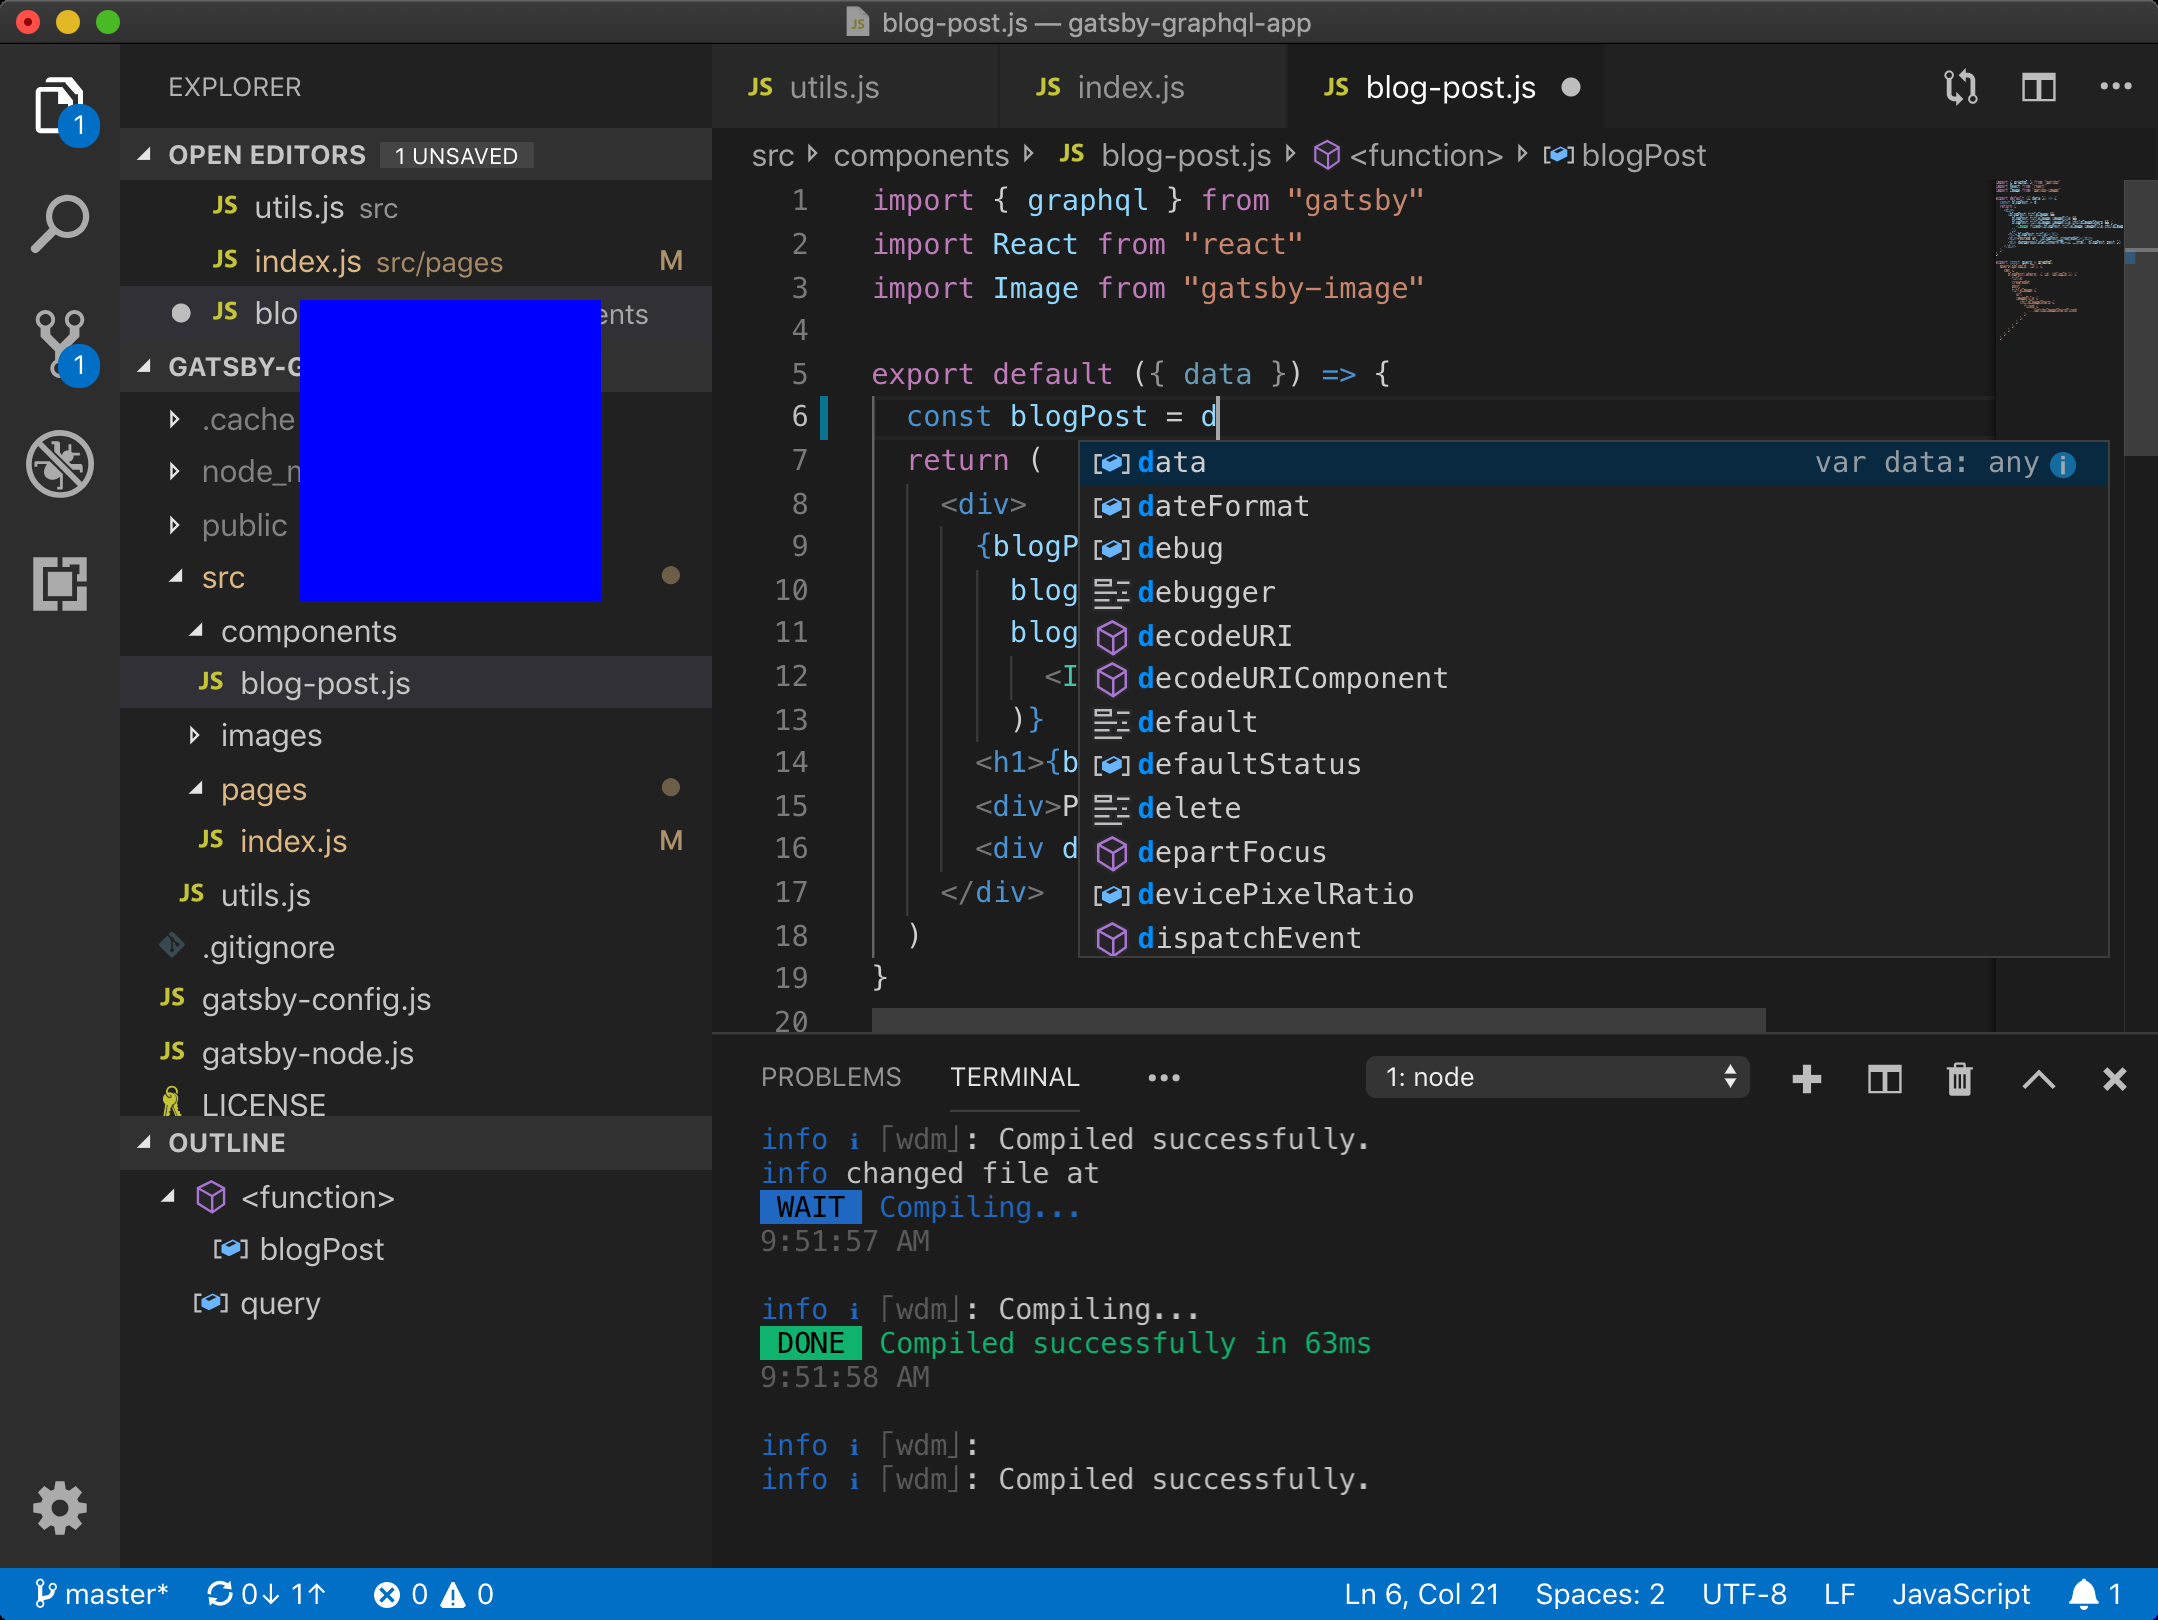
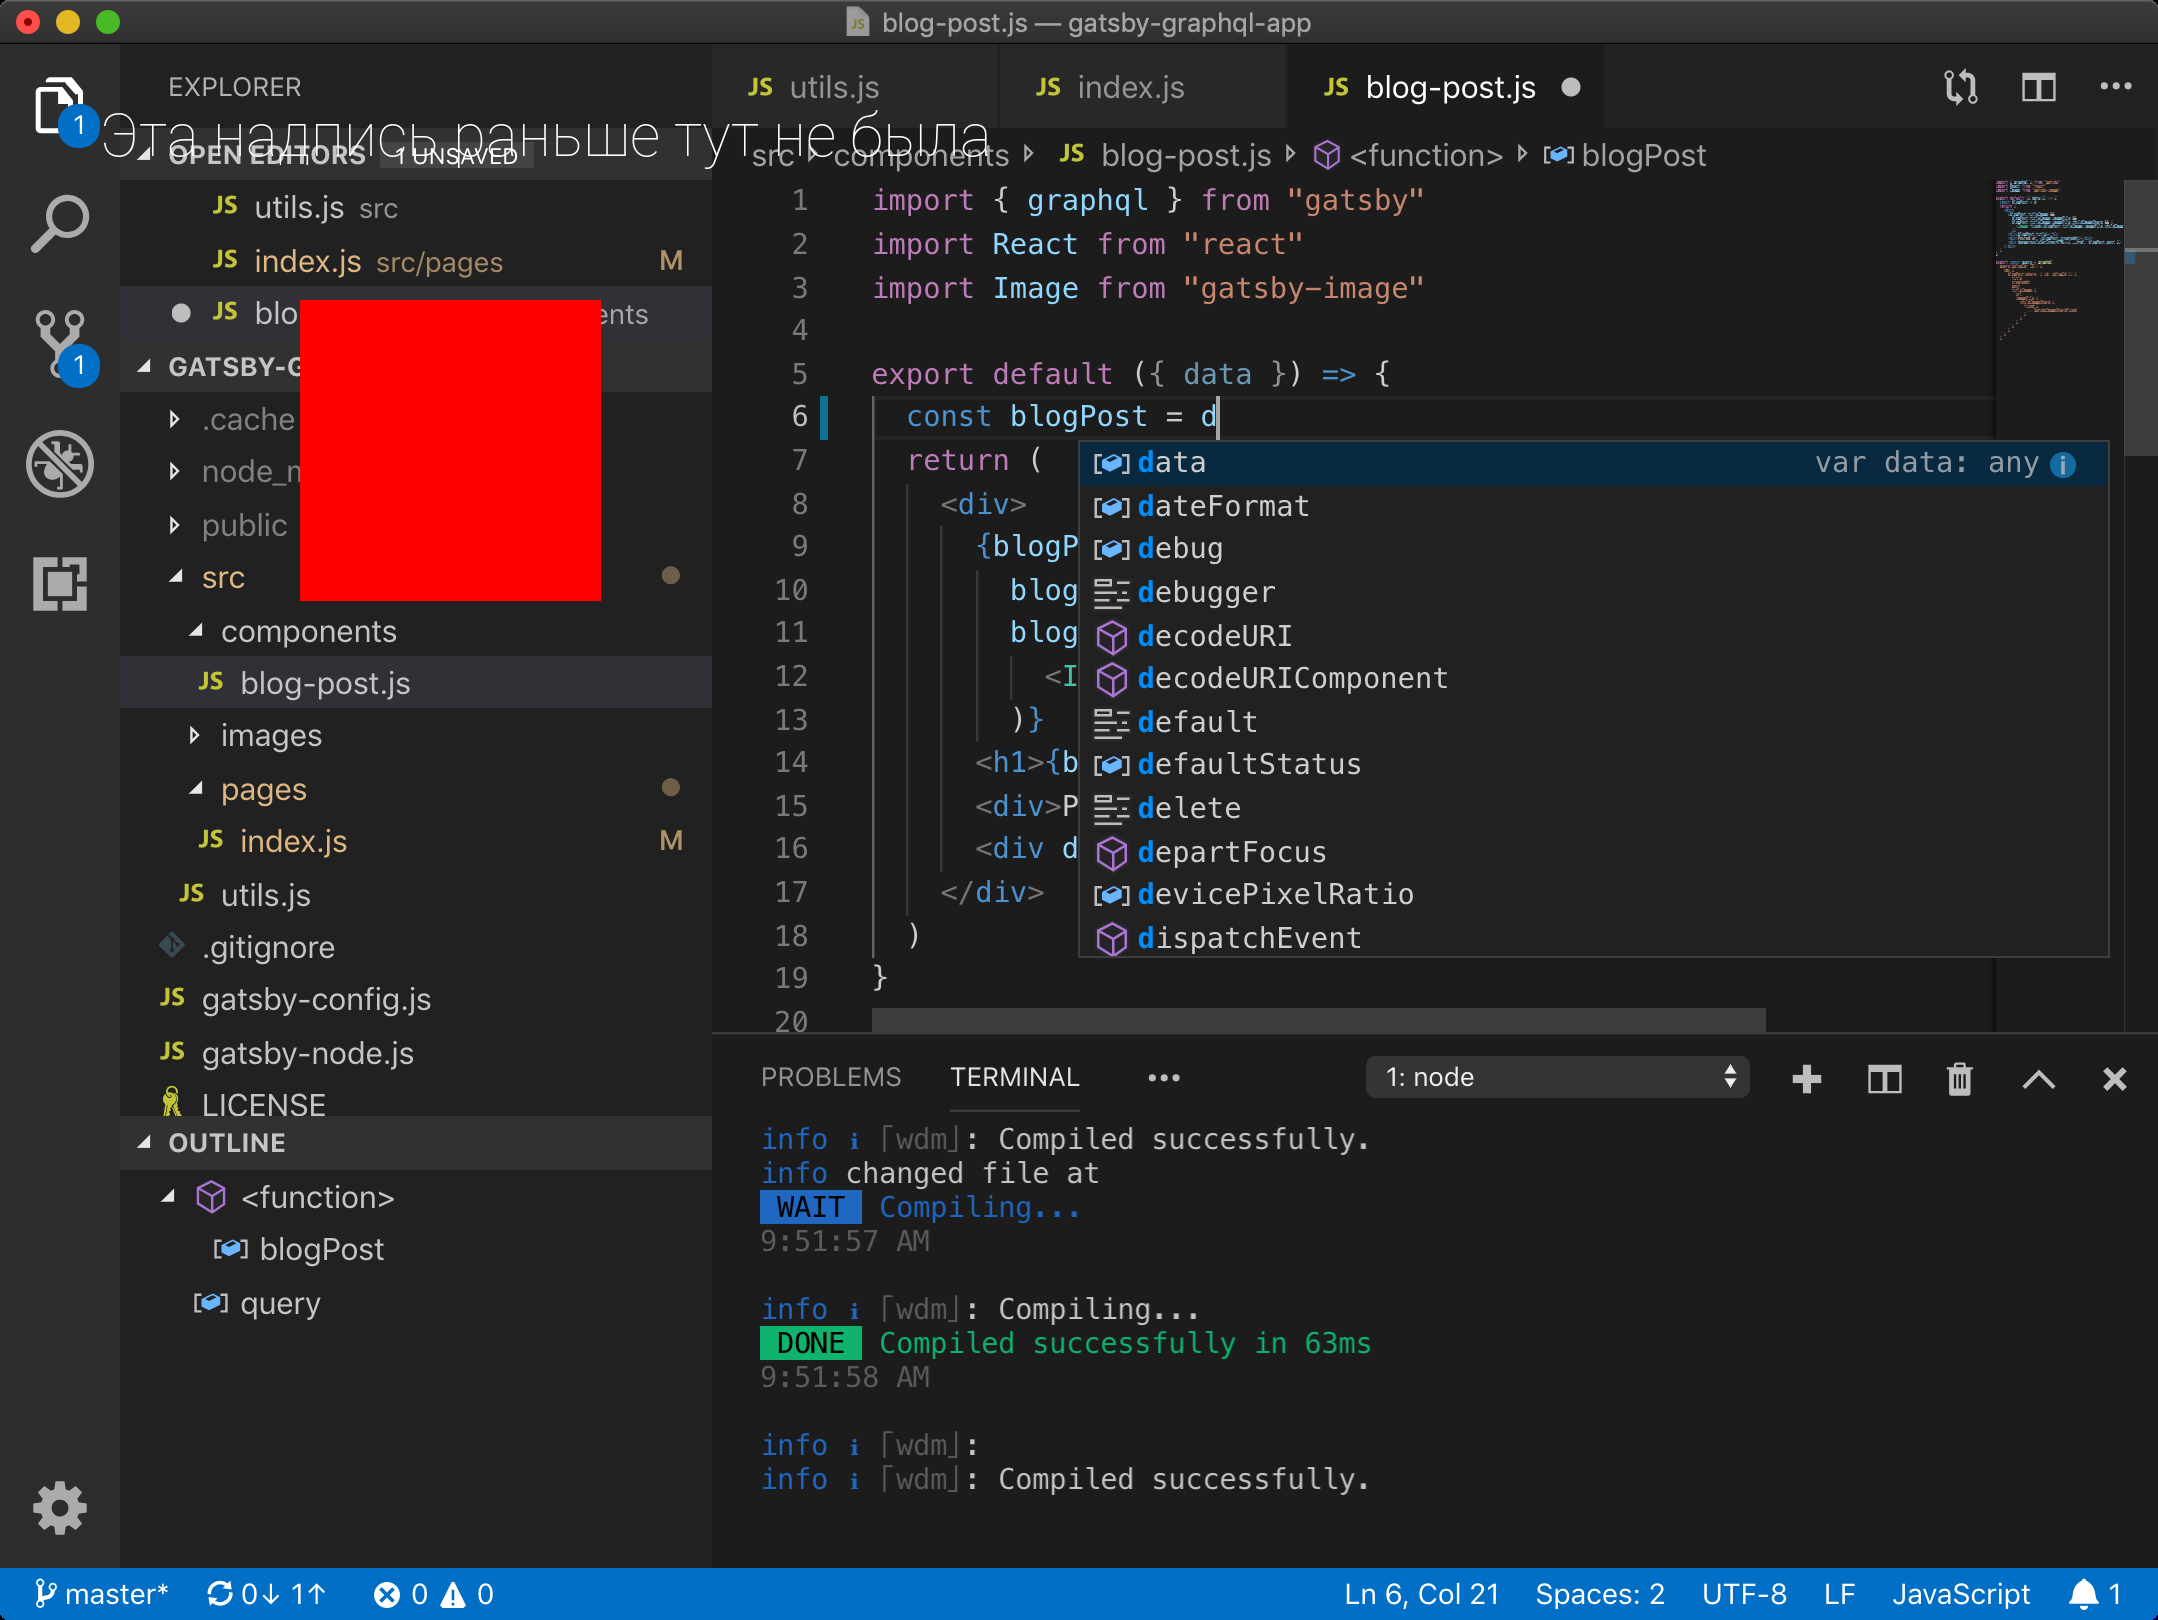
init

Changed region(s): [[0.1242, 0.1852, 0.2794, 0.3704]]

diff --git a/tests/test_3_with_draw_out_elements.py b/tests/test_3_with_draw_out_elements.py
@@ -15,16 +15,40 @@ def test_main_page_draw_elements_out(browser):
     diff_path = make_tmp_file_path(browser, "diff")
 
     browser.get(PROD_BASE_URL) # prod
-    slider = browser.find_element(By.CSS_SELECTOR, '[data-ux="Block"]').rect
+    element = browser.find_element(By.CSS_SELECTOR, '[data-ux="ModalBody"]').rect
     browser.save_screenshot(master_path)
 
     browser.get(STAGE_BASE_URL) # stage
+    element = browser.find_element(By.CSS_SELECTOR, '[data-ux="ModalBody"]').rect
     browser.save_screenshot(staging_path)
 
     comparison_test_light_with_draw(
         master_path,
         staging_path,
         diff_path,
-        draw_out=[slider],
+        draw_out=[element],
+        clear_images=False,
+    )
+
[email redacted]("testType", "screenshotDiff")
[email redacted]("Comparing pages test with special elements out")
+def test_main_page_get_special_elements_out(browser):
+    master_path = make_tmp_file_path(browser, "prod")
+    staging_path = make_tmp_file_path(browser, "staging")
+    diff_path = make_tmp_file_path(browser, "diff")
+
+    browser.get(PROD_BASE_URL) # prod
+    element = browser.find_element(By.CSS_SELECTOR, '[data-ux="ModalBody"]')
+    element.screenshot(master_path)
+
+    browser.get(STAGE_BASE_URL) # stage
+    element = browser.find_element(By.CSS_SELECTOR, '[data-ux="ModalBody"]')
+    element.screenshot(staging_path)
+
+    comparison_test_light_with_draw(
+        master_path,
+        staging_path,
+        diff_path,
+        draw_out=[element],
         clear_images=False,
     )

diff --git a/tests/test_1_comparing_urls.py b/tests/test_1_comparing_urls.py
@@ -9,7 +9,7 @@ from screenshots.helpers import comparison_test_light, make_tmp_file_path
 
 @allure.label("testType", "screenshotDiff")
 @allure.title("Comparing pages test with basic comparison")
-
[email redacted]
 def test_main_page(browser):
     master_path = make_tmp_file_path(browser, "prod")
     staging_path = make_tmp_file_path(browser, "staging")
@@ -18,6 +18,21 @@ def test_main_page(browser):
     browser.get(PROD_BASE_URL)
     time.sleep(1)
     browser.save_screenshot(master_path)
+
+    browser.get(STAGE_BASE_URL)
+    time.sleep(1)
+    browser.save_screenshot(staging_path)
+
+    comparison_test_light(master_path, staging_path, diff_path, clear_images=False)
+
+
[email redacted]("testType", "screenshotDiff")
[email redacted]("Comparing pages test with basic comparison")
[email redacted]
+def test_main_page2(browser):
+    master_path = 'test_screenshots/test_main_page/1fa43_staging.png'
+    staging_path = make_tmp_file_path(browser, "staging")
+    diff_path = make_tmp_file_path(browser, "diff")
 
     browser.get(STAGE_BASE_URL)
     time.sleep(1)

diff --git a/pillow_examples/2_text_on_image.py b/pillow_examples/2_text_on_image.py
@@ -1,13 +1,13 @@
 from PIL import Image, ImageDraw, ImageFont
 
-image_object = Image.open("/Users/elenayanushevskaya/python_qa_screenshot/images/example_product.png").convert("RGB")
+image_object = Image.open("/Users/elenayanushevskaya/QAP/otus-visual-testing/images/example_product.png").convert("RGB")
 
 draw_object = ImageDraw.Draw(image_object)
 text = "Эта надпись раньше тут не была"
 
-# font = ImageFont.truetype("Roboto-Thin.ttf", size=60)
-#
-# draw_object.text((100, 100), text, font=font)
-draw_object.rectangle((300, 300, 600, 600), fill="blue")
+font = ImageFont.truetype("Roboto-Thin.ttf", size=60)
 
-image_object.save('/Users/elenayanushevskaya/python_qa_screenshot/images/example_product_tag.png')
+draw_object.text((100, 100), text, font=font)
+draw_object.rectangle((300, 300, 600, 600), fill="red")
+
+image_object.save('/Users/elenayanushevskaya/QAP/otus-visual-testing/images/example_product_tag.png')

diff --git a/tests/test_4_with_remove_elements.py b/tests/test_4_with_remove_elements.py
@@ -21,15 +21,14 @@ def test_main_page_remove_elements(browser):
             element.remove();;
             """, element)
 
-    elements_prod = ['#popup-widget7437']
-    elements_stage = ['#popup-widget62629']
+    elements = ['[data-ux="ModalPopup"]']
     browser.get(PROD_BASE_URL)
-    time.sleep(3)  # We want slider swipe
-    remove_elements(browser, elements_prod)
+    time.sleep(3)
+    remove_elements(browser, elements)
     browser.save_screenshot(master_path)
 
     browser.get(STAGE_BASE_URL)
-    remove_elements(browser, elements_stage)
+    remove_elements(browser, elements)
     browser.save_screenshot(staging_path)
 
     comparison_test_light(master_path, staging_path, diff_path, clear_images=False)

diff --git a/tests/test_9_lib_visual_comparison.py b/tests/test_9_lib_visual_comparison.py
@@ -31,7 +31,7 @@ def test_visual_comparison(browser):
     match_result = ImageComparisonUtil.check_match(master_path, staging_path)
     assert match_result
 
[email redacted]
+
 def test_visual_comparison_element(browser):
     master_path = make_tmp_file_path(browser, "prod")
     staging_path = make_tmp_file_path(browser, "staging")
@@ -39,12 +39,13 @@ def test_visual_comparison_element(browser):
 
     browser.get('https://global.wildberries.ru/')
     time.sleep(3)
+    _ = browser.find_element(By.CSS_SELECTOR, '[data-wba-header-name="Country"]').rect
     browser.find_element(By.CSS_SELECTOR, '[class="header j-header header--sticky"]').screenshot(master_path)
 
     browser.get('https://www.wildberries.by/')
     time.sleep(3)
-    browser.find_element(By.CSS_SELECTOR, '[class="header j-header"]').screenshot(staging_path)
-
+    _ = browser.find_element(By.CSS_SELECTOR, '.header__currency').rect
+    browser.find_element(By.CSS_SELECTOR, '[class="header j-header header--sticky"]').screenshot(staging_path)
 
     expected_image = ImageComparisonUtil.read_image(master_path)
     actual_image = ImageComparisonUtil.read_image(staging_path)

diff --git a/pillow_examples/2_compare_images.py b/pillow_examples/2_compare_images.py
@@ -2,14 +2,14 @@ from PIL import Image
 from PIL import ImageChops
 
 # https://stackoverflow.com/questions/35176639/compare-images-python-pil/56280735
-production = Image.open("/Users/elenayanushevskaya/python_qa_screenshot/images/example_product.png").convert('RGB')
-staging = Image.open("/Users/elenayanushevskaya/python_qa_screenshot/images/example_staging.png").convert('RGB')
+production = Image.open("/Users/elenayanushevskaya/QAP/otus-visual-testing/images/example_product.png").convert('RGB')
+staging = Image.open("/Users/elenayanushevskaya/QAP/otus-visual-testing/images/example_staging.png").convert('RGB')
 
 # Find difference between images
 difference = ImageChops.difference(production, staging)
 
 if difference.getbbox():
     print("Different!")
-    difference.save("/Users/elenayanushevskaya/python_qa_screenshot/images/example_compare_images_difference.png")
+    difference.save("/Users/elenayanushevskaya/QAP/otus-visual-testing/images/example_compare_images_difference.png")
 else:
     print("Not different!")

diff --git a/pillow_examples/3_draw_rect_around_diff.py b/pillow_examples/3_draw_rect_around_diff.py
@@ -45,7 +45,7 @@ def analyze(image_production, image_staging, col=COLS, row=ROWS):
 
 
     if has_diff:
-        production.save("/Users/elenayanushevskaya/python_qa_screenshot/images/example_product.pngexample_diff.png")
+        production.save("/Users/elenayanushevskaya/QAP/otus-visual-testing/images/example_product_diff.png")
         print("Images are not identical")
     else:
         print("Images are identical on: FACTOR {f}, COLS {c}, ROWS {r}".format(f=FACTOR, c=COLS, r=ROWS))
@@ -53,6 +53,6 @@ def analyze(image_production, image_staging, col=COLS, row=ROWS):
 
 if __name__ == "__main__":
     analyze(
-        "/Users/elenayanushevskaya/python_qa_screenshot/images/example_product.pngexample_product.png",
-        "/Users/elenayanushevskaya/python_qa_screenshot/images/example_product.pngexample_staging.png"
+        "/Users/elenayanushevskaya/QAP/otus-visual-testing/images/example_product.png",
+        "/Users/elenayanushevskaya/QAP/otus-visual-testing/images/example_staging.png"
     )

diff --git a/tests/test_2_comparing_urls_js.py b/tests/test_2_comparing_urls_js.py
@@ -11,9 +11,10 @@ from screenshots.helpers import comparison_test_light, make_tmp_file_path
 @allure.label("testType", "screenshotDiff")
 @allure.title("Comparing pages test with basic comparison and actions")
 def test_interactive_element(browser):
-    prod_screenshot_path = '/Users/elenayanushevskaya/Desktop/QAP/otus-visual-testing/test_screenshots/test_interactive_element/28e2c_staging.png'
-    # prod_screenshot_path = make_tmp_file_path(browser, "prod")
+    # prod_screenshot_path = '/Users/elenayanushevskaya/QAP/otus-visual-testing/test_screenshots/test_interactive_element/bc57a_staging.png'
+    prod_screenshot_path = make_tmp_file_path(browser, "prod")
     stag_screenshot_path = make_tmp_file_path(browser, "staging")
+    print(stag_screenshot_path)
     diff_screenshot_path = make_tmp_file_path(browser, "diff")
 
     for url, scr in [

diff --git a/pillow_examples/2_crop_images.py b/pillow_examples/2_crop_images.py
@@ -1,6 +1,6 @@
 from PIL import Image
 
-image = Image.open('/Users/elenayanushevskaya/python_qa_screenshot/images/example_product.pngexample_product.png')
+image = Image.open('/Users/elenayanushevskaya/QAP/otus-visual-testing/images/example_product.png')
 cropped = image.crop((0, 100, 200, 400))
 
-cropped.save('/Users/elenayanushevskaya/python_qa_screenshot/images/example_product_cropped.png')
+cropped.save('/Users/elenayanushevskaya/QAP/otus-visual-testing/images/example_product_cropped.png')

diff --git a/tests/test_6_rectangle_errors.py b/tests/test_6_rectangle_errors.py
@@ -9,6 +9,7 @@ from screenshots.helpers import compare_images_hard, make_tmp_file_path
 def test_main_page_rectangles(browser):
     master_path = make_tmp_file_path(browser, "prod")
     staging_path = make_tmp_file_path(browser, "staging")
+    diff_path = make_tmp_file_path(browser, "diff")
 
     browser.get(PROD_BASE_URL)
     browser.save_screenshot(master_path)
@@ -16,4 +17,4 @@ def test_main_page_rectangles(browser):
     browser.get(STAGE_BASE_URL)
     browser.save_screenshot(staging_path)
 
-    compare_images_hard(master_path, staging_path)
+    compare_images_hard(master_path, staging_path, diff_path)

diff --git a/pillow_examples/1_basic.py b/pillow_examples/1_basic.py
@@ -1,5 +1,5 @@
 from PIL import Image
 
-production = Image.open("/Users/elenayanushevskaya/python_qa_screenshot/images/example_product.png")
+production = Image.open("/Users/elenayanushevskaya/QAP/otus-visual-testing/images/example_product_tag.png")
 
 production.show()

diff --git a/tests/test_7_components.py b/tests/test_7_components.py
@@ -20,6 +20,6 @@ def test_main_page_elements(browser):
 
     browser.get('https://www.wildberries.by/')
     time.sleep(3)
-    browser.find_element(By.CSS_SELECTOR, '[class="header j-header"]').screenshot(staging_path)
+    browser.find_element(By.CSS_SELECTOR, '[class="header j-header header--sticky"]').screenshot(master_path)
 
     comparison_test_light(master_path, staging_path, difference, clear_images=False)